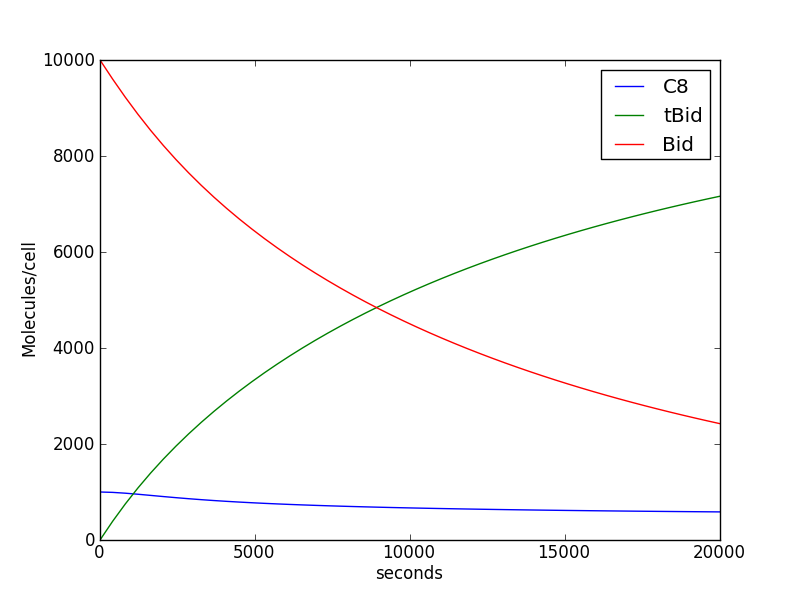
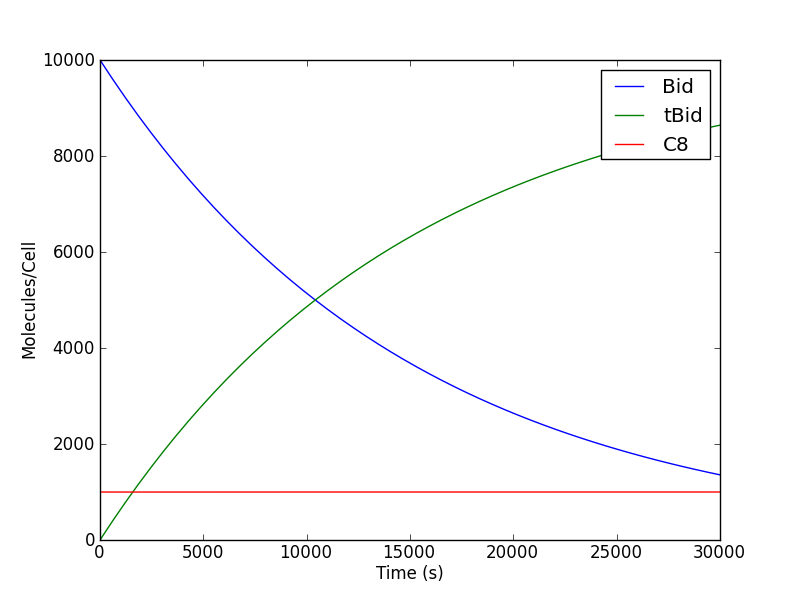
changes, started to edit advanced tutorial, move to another section

diff --git a/doc/examples/mymodel5.py b/doc/examples/mymodel5.py
@@ -1,0 +1,47 @@
+# import the pysb module and all its methods and functions
+from pysb import *
+
+
+def catalyze(enz, sub, site, state1, state2, kf, kr, kc):   # function call
+    """2-step catalytic process"""                          # reaction name
+    r1_name = '%s_assoc_%s' % (enz.name, sub.name)           # name of association reaction for rule
+    r2_name = '%s_diss_%s' % (enz.name, sub.name)           # name of dissociation reaction for rule
+    E = enz(b=None)                                         # define enzyme state in function
+    S = sub({'b': None, site: state1})                      # define substrate state in function
+    ES = enz(b=1) % sub({'b': 1, site: state1})             # define state of enzyme:substrate complex
+    P = sub({'b': None, site: state2})                      # define state of product
+    Rule(r1_name, E + S <> ES, kf, kr)                      # rule for enzyme + substrate association (bidirectional)
+    Rule(r2_name, ES >> E + P, kc)                          # rule for enzyme:substrate dissociation  (unidirectional)
+   
+# instantiate a model
+Model()
+
+# declare monomers
+Monomer('C8', ['b'])
+Monomer('Bid', ['b', 'S'], {'S':['u', 't']})
+
+# input the parameter values
+Parameter('kf', 1.0e-07)
+Parameter('kr', 1.0e-03)
+Parameter('kc', 1.0)
+
+# OLD RULES
+# Rule('C8_Bid_bind', C8(b=None) + Bid(b=None, S=None) <> C8(b=1) % Bid(b=1, S=None), *[kf, kr]) 
+# Rule('tBid_from_C8Bid', C8(b=1) % Bid(b=1, S='u') >> C8(b=None) + Bid(b=None, S='t'), kc)
+#
+# NEW RULES
+# Catalysis
+catalyze(C8, Bid, 'S', 'u', 't', kf, kr, kc)
+
+
+# initial conditions
+Parameter('C8_0', 1000)
+Parameter('Bid_0', 10000)
+Initial(C8(b=None), C8_0)
+Initial(Bid(b=None, S='u'), Bid_0)
+
+# Observables
+Observable('obsC8', C8(b=None))
+Observable('obsBid', Bid(b=None, S='u'))
+Observable('obstBid', Bid(b=None, S='t'))
+

diff --git a/doc/examples/mymodel3.py b/doc/examples/mymodel3.py
@@ -9,11 +9,11 @@ Monomer('C8', ['b'])
 Monomer('Bid', ['b', 'S'], {'S':['u', 't']})
 
 # input the parameter values
-Parameter('kf', 1.04e-06)
-Parameter('kr', 1.04e-06)
-Parameter('kc', 1.04e-06)
+Parameter('kf', 1.0e-07)
+Parameter('kr', 1.0e-03)
+Parameter('kc', 1.0)
 
 # now input the rules
-Rule('C8_Bid_bind', C8(b=None) + Bid(b=None, S=None) <> C8(b=1) % Bid(b=1, S=None), *[kf, kr]) 
+Rule('C8_Bid_bind', C8(b=None) + Bid(b=None, S=None) <> C8(b=1) % Bid(b=1, S=None), kf, kr) 
 Rule('tBid_from_C8Bid', C8(b=1) % Bid(b=1, S='u') >> C8(b=None) + Bid(b=None, S='t'), kc)
 

diff --git a/pysb/examples/paper_3a_2.py b/pysb/examples/paper_3a_2.py
@@ -1,11 +1,5 @@
 from pysb import *
 
-Model()
-
-Monomer('Kinase', ['b'])
-Monomer('Substrate', ['b', 'y'], {'y': ['U','P']})
-
-
 def catalyze(enz, sub, site, state1, state2, kf, kr, kc):
     """2-step catalytic process"""
     r1_name = '%s_bind_%s' % (enz.name, sub.name)
@@ -17,6 +11,10 @@ def catalyze(enz, sub, site, state1, state2, kf, kr, kc):
     Rule(r1_name, E + S <> ES, kf, kr)
     Rule(r2_name, ES >> E + P, kc)
 
+Model()
+
+Monomer('Kinase', ['b'])
+Monomer('Substrate', ['b', 'y'], {'y': ['U','P']})
 
 Parameter('kf', 1)
 Parameter('kr', 1)

diff --git a/doc/examples/mymodel2.py b/doc/examples/mymodel2.py
@@ -6,11 +6,12 @@ Model()
 
 # declare monomers
 Monomer('C8', ['b'])
-Monomer('Bid', ['b', 'S'])
+Monomer('Bid', ['b', 'S'], {'S':['u', 't']})
 
 # input the parameter values
-Parameter('kf', 1.04e-06)
-Parameter('kr', 1.04e-06)
-Parameter('kc', 1.04e-06)
+Parameter('kf', 1.0e-07)
+Parameter('kr', 1.0e-03)
+Parameter('kc', 1.0)
+
 
 

diff --git a/doc/examples/mymodel1.py b/doc/examples/mymodel1.py
@@ -6,6 +6,6 @@ Model()
 
 # declare monomers
 Monomer('C8', ['b'])
-Monomer('Bid', ['b', 'S'])
+Monomer('Bid', ['b', 'S'], {'S':['u', 't']})
 
 

diff --git a/doc/tutorial.rst b/doc/tutorial.rst
@@ -178,8 +178,8 @@ Run the *ipython* (or *python*) interpreter with no arguments to enter
 interactive mode (be sure to do this from the same directory where
 you've saved :file:`mymodel.py`) and run the following code::
 
-   >>> from mymodel import model
-   >>> model.monomers
+   >>> import mymodel as m
+   >>> m.model.monomers
 
 You should see the following output::
 
@@ -228,8 +228,8 @@ corresponding to the parameters so that your file looks like this:
 Once this is done start the *ipython* (or *python*) intepreter and
 enter the following commands:: 
 
-   >>> from mymodel import model
-   >>> model.parameters
+   >>> import mymodel as m
+   >>> m.model.parameters
 and you should get an output such as::
 
    {'kf': Parameter(name='kf', value=1.0e-07),
@@ -284,7 +284,7 @@ To illustrate the use of the operators and the rule syntax we write
 the complex formation reaction with labels illustrating the parts of
 the rule::
 
-   Rule('C8_Bid_bind', C8(b=None) + Bid(b=None, S=None) <> C8(b=1) % Bid(b=1, S=None), *[kf, kr]) 
+   Rule('C8_Bid_bind', C8(b=None) + Bid(b=None, S='u') <> C8(b=1) % Bid(b=1, S='u'), *[kf, kr]) 
 	     |              |     |           |         |     |    |     |             |
              |              |     |           |         |     |    |     |            parameter list
 	     |              |     |           |         |     |    |     |
@@ -331,7 +331,7 @@ With this state site added, we can now go ahead and write the rules
 that will account for the binding step and the unbinding step as
 follows::
 
-   Rule('C8_Bid_bind', C8(b=None) + Bid(b=None, S='u') <>C8(b=1) % Bid(b=1, S='u'), *[kf, kr])
+   Rule('C8_Bid_bind', C8(b=None) + Bid(b=None, S='u') <>C8(b=1) % Bid(b=1, S='u'), kf, kr)
    Rule('tBid_from_C8-Bid', C8(b=1) % Bid(b=1, S='u') >> C8(b=None) % Bid(b=None, S='t'), kc)
 
 As shown, the initial reactants, *C8* and *Bid* initially in the
@@ -351,21 +351,21 @@ have the correct monomers, parameters, and rules. Your output should
 be very similar to the one presented (output shown below the ``'>>>'``
 python prompts).::
 
-   >>> from mymodel import model
-   >>> model.monomers
+   >>> import mymodel as m
+   >>> m.model.monomers
       {'C8': Monomer(name='C8', sites=['b'], site_states={}),
       'Bid': Monomer(name='Bid', sites=['b', 'S'], site_states={'S': ['u', 't']})}
    >>> model.parameters
       {'kf': Parameter(name='kf', value=1.0e-07),
        'kr': Parameter(name='kr', value=1.0e-03),
        'kc': Parameter(name='kc', value=1.0    )}
-   >>> model.rules
+   >>> m.model.rules
       {'C8_Bid_bind': Rule(name='C8_Bid_bind', reactants=C8(b=None) +
-      Bid(b=None, S=None), products=C8(b=1) % Bid(b=1, S=None),
+      Bid(b=None, S='u'), products=C8(b=1) % Bid(b=1, S='u'),
       rate_forward=Parameter(name='kf', value=1.0e-07),
       rate_reverse=Parameter(name='kr', value=1.0e-03)),
       'tBid_from_C8Bid': Rule(name='tBid_from_C8Bid', reactants=C8(b=1) %
-      Bid(b=1, S=u), products=C8(b=None) + Bid(b=None, S=t),
+      Bid(b=1, S='u'u), products=C8(b=None) + Bid(b=None, S=t),
       rate_forward=Parameter(name='kc', value=1.0))}
 
 With this we are almost ready to run a simulation, all we need now is
@@ -427,7 +427,7 @@ observe activated complexes.
 
 Simulation and analysis
 =======================
-By now your :file:`mymodel.py` file should look something like this::
+By now your :file:`mymodel.py` file should look something like this:
 
 .. literalinclude:: examples/mymodel4.py
 
@@ -436,23 +436,23 @@ properly. Start your *ipython* (or *python*) interpreter and enter the
 commands as shown below. Notice the output should be similar to the
 one shown (output shown below the ``'>>>'``` prompts)::
 
-   >>> from mymodel import model
-   >>> model.monomers
+   >>> import mymodel as m
+   >>> m.model.monomers
       {'C8': Monomer(name='C8', sites=['b'], site_states={}),
        'Bid': Monomer(name='Bid', sites=['b', 'S'], site_states={'S': ['u', 't']})}
-   >>> model.parameters
+   >>> m.model.parameters
       {'kf': Parameter(name='kf', value=1.0e-07),
        'kr': Parameter(name='kr', value=1.0e-03),
        'kc': Parameter(name='kc', value=1.0    ),
        'C8_0': Parameter(name='C8_0', value=1000),
        'Bid_0': Parameter(name='Bid_0', value=10000)}
-   >>> model.observables
+   >>> m.model.observables
       {'obsC8': <pysb.core.Observable object at 0x104b2c4d0>,
        'obsBid': <pysb.core.Observable object at 0x104b2c5d0>,
        'obstBid': <pysb.core.Observable object at 0x104b2c6d0>}
-   >>> model.initial_conditions
+   >>> m.model.initial_conditions
       [(C8(b=None), Parameter(name='C8_0', value=1000)), (Bid(b=None, S=u), Parameter(name='Bid_0', value=10000))]
-   >>> model.rules
+   >>> m.model.rules
       {'C8_Bid_bind': Rule(name='C8_Bid_bind', reactants=C8(b=None) +
       Bid(b=None, S=None), products=C8(b=1) % Bid(b=1, S=None),
       rate_forward=Parameter(name='kf', value=1.0e-07),    rate_reverse=Parameter(name='kr', value=1.0e-03)),
@@ -472,24 +472,25 @@ integrators in the *SciPy*[#sp]_ module to function seamlessly with
 We will begin our simulation by loading the model from the *ipython*
 (or *python*) interpreter as shown below::
 
-   >>> from mymodel import model
-   >>> model.monomers
+   >>> import mymodel as m
+   >>> m.model.monomers
 
 Now, we will import the *PyLab* and **PySB** integrator module. Enter
 the commands as shown below::
 
    >>> from pysb.integrate import odesolve
-   >>> from pylab import *
+   >>> import pylab as pl
 
 We have now loaded the integration engine and the graph engine into
-the interpreter environment. You may get some feedback as some things
-can be compiled at runtime, depending on your operating
-system. The next thing we need is to tell the integrator the time
-domain over which we wish to integrate the equations. For our case we
-will use :math:`20000s` of simulation time. To do this we generate an
-array using the *linspace* function. Enter the command below::
+the interpreter environment. You may get some feedback from the
+program as some functions can be compiled at runtime for speed,
+depending on your operating system.Next we need to tell the integrator
+the time domain over which we wish to integrate the equations. For our
+case we will use :math:`20000s` of simulation time. To do this we
+generate an array using the *linspace* function from *PyLab*. Enter
+the command below::
 
-   >>> t = linspace(0, 20000)
+   >>> t = pl.linspace(0, 20000)
 
 This command assigns an array in the range :math:`[0..20000]` to the
 variable *t*. You can type the name of the variable at any time to see
@@ -515,7 +516,7 @@ These are the points at which we will get data for each ODE from the
 integrator. With this, we can now run our simulation. Enter the
 following commands to run the simulation::
 
-   >>> yout = odesolve(model, t)
+   >>> yout = odesolve(m.model, t)
 
 To verify that the simulation run you can see the content of the
 *yout* object. For example, check for the content of the *Bid*
@@ -544,15 +545,15 @@ names. We can therefore plot this data to visualize our output. Using
 the commands imported from the *PyLab* module we can create a graph
 interactively. Enter the commands as shown below::
 
-   >>>ion()
-   >>>figure()
-   >>>plot(t, yout['obsBid'], label="Bid")
-   >>>plot(t, yout['obstBid'], label="tBid")
-   >>>plot(t, yout['obsC8'], label="C8")
-   >>>legend()
-   >>>xlabel("seconds")
-   >>>ylabel("Molecules/cell")
-   >>>show()
+   >>>pl.ion()
+   >>>pl.figure()
+   >>>pl.plot(t, yout['obsBid'], label="Bid")
+   >>>pl.plot(t, yout['obstBid'], label="tBid")
+   >>>pl.plot(t, yout['obsC8'], label="C8")
+   >>>pl.legend()
+   >>>pl.xlabel("Time (s)")
+   >>>pl.ylabel("Molecules/cell")
+   >>>pl.show()
 
 You should now have a figure in your screen showing the number of
 *Bid* molecules decreaing from the initial amount decreasing over
@@ -575,16 +576,61 @@ simulation!
 =================
 Advanced modeling
 =================
+
 In this section we continue with the above tutorial and touch on some
-advanced techniques for modeling using compartments (`BioNetGen`_
-only), the definition of higher order rules using functions, and model
-calibration using the PySB utilities. Although we provide the
-functions and utilities we have found useful for the community, we
-encourage users to customize the modeling tools to their needs and
-add/contribute to the **PySB** modeling community.
+advanced techniques for modeling using compartments, the definition of
+higher order rules using functions, and model calibration using the
+PySB utilities. Although we provide the functions and utilities we
+have found useful for the community, we encourage users to customize
+the modeling tools to their needs and add/contribute to the *PySB*
+modeling community.
+
+For this section we will show the power of functions by creating a
+function called "catalyze". Catalysis happens quite often in models
+and it is one of the basic functions we have found useful in our
+model development. Rather than typing many lines such as::
+
+   Rule("association",  Enz(b=None) + Sub(b=None, S="i") <> Enz(b=1)%Sub(b=1,S="i"), kf, kr)
+   Rule("dissociation", Enz(b=1)%Sub(b=1,S="i") >> Enz(b=None) + Sub(b=None, S="a"), kc)
+   
+multiple times, we find it more powerful, transparent and easy to
+instantiate/edit a simple, one-line function call such as::
+
+   catalyze(Enz, Sub, "S", "i", "a", kf, kr, kc)
+
+We find that the functional form captures what we mean to write: a
+chemical species (the substrate) undergoes catalytic activation (by
+the enzyme) with a given set of parameters. We will now describe how a
+function can be written in *PySB* to automate the scripting of simple
+concepts into a programmatic format. Examine the function below::
+
+   def catalyze(enz, sub, site, state1, state2, kf, kr, kc):   # (0) function call
+       """2-step catalytic process"""                          # (1) reaction name
+       r1_name = '%s_assoc_%s' % (enz.name, sub.name)          # (2) name of association reaction for rule
+       r2_name = '%s_diss_%s' % (enz.name, sub.name)           # (3) name of dissociation reaction for rule
+       E = enz(b=None)                                         # (4) define enzyme state in function
+       S = sub({'b': None, site: state1})                      # (5) define substrate state in function
+       ES = enz(b=1) % sub({'b': 1, site: state1})             # (6) define state of enzyme:substrate complex
+       P = sub({'b': None, site: state2})                      # (7) define state of product
+       Rule(r1_name, E + S <> ES, kf, kr)                      # (8) rule for enzyme + substrate association (bidirectional)
+       Rule(r2_name, ES >> E + P, kc)                          # (9) rule for enzyme:substrate dissociation  (unidirectional)
+
+As shown it takes about ten lines to write the catalyze function
+(shorter variants are certainly possible with more advanced *Python*
+statements). The skeleton of every function in *Python* 
+
+
 
 Higher-order rules
 ==================
+The key advantage to *PySB* is the fact that it provides a way for
+*Monomers*, *Parameters*, *Species*, and pretty much anything related
+to rules-based modeling as objects in the *Python* language. As such
+one could write functions to interact with these objects and they
+could be instantiated and inherit methods from a class. The limits to
+programming biology with *PySB* are mostly those enforced by the
+*Python* language itself. 
+
 
 Model calibration
 =================

diff --git a/doc/intro.rst b/doc/intro.rst
@@ -1,8 +1,20 @@
-Introduction
-============
+Introduction to modeling
+========================
 
-Here is where we will describe whay PySB does and how cool it is.
-Keep it short, one paragraph or two at the most.
+The premise to all modeling is that, given experimental
+observations, we have reason to believe that a system is governed by a
+set of rules which we aim to understand and employ for furthe
+manipulation of the system. As such, models aim both to *explain* the
+behavior of a system given a set of conditions, or to predict the
+behavior of a system given a set of conditions. The best models can
+perform both tasks to explain and predict. 
+
+PySB as modeling tool
+=====================
+*PySB* is a set of software tools that enables users to develop,
+implement, and execute biological models in a programming
+environment.
+
 
 An example
 ----------
